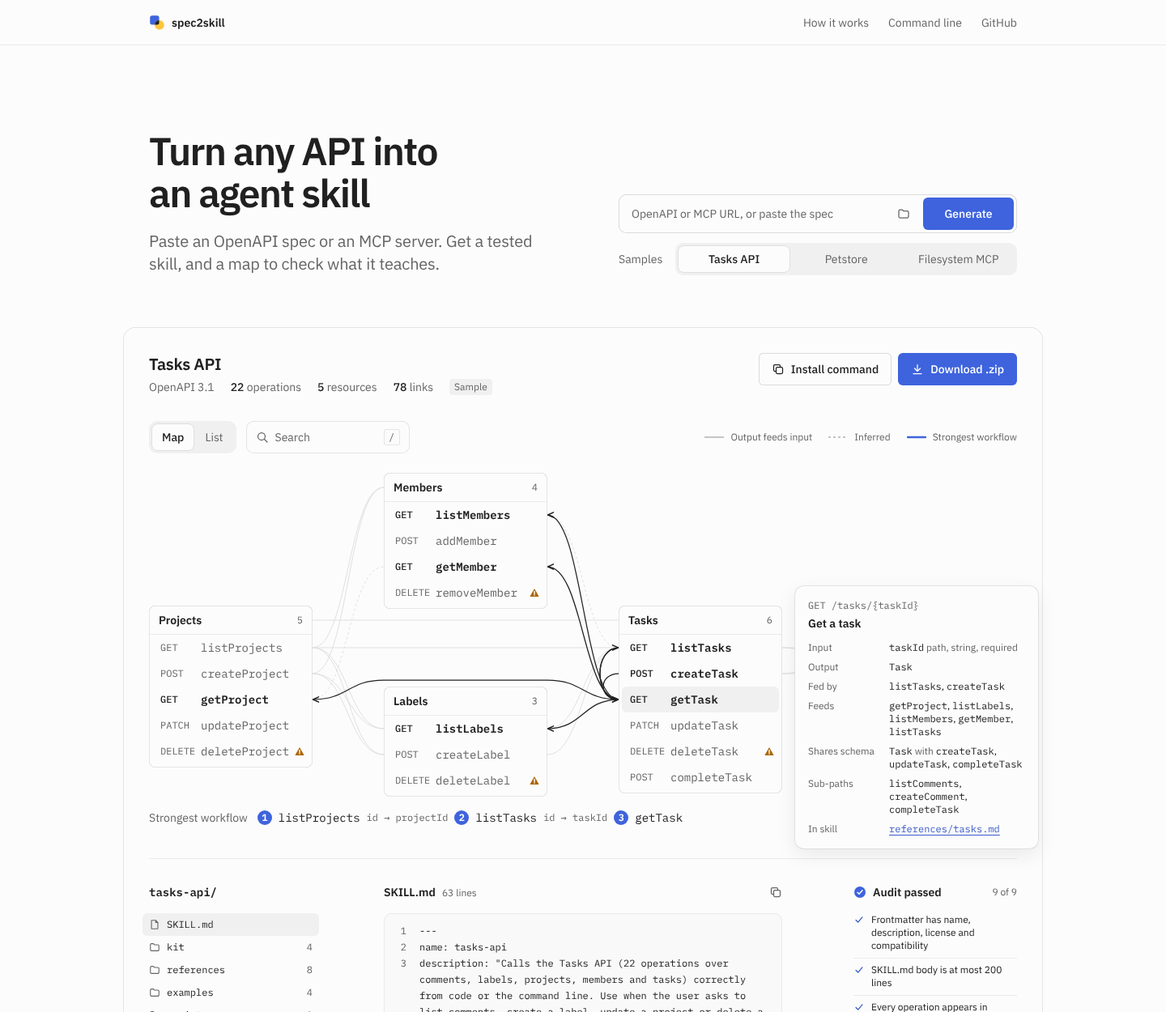
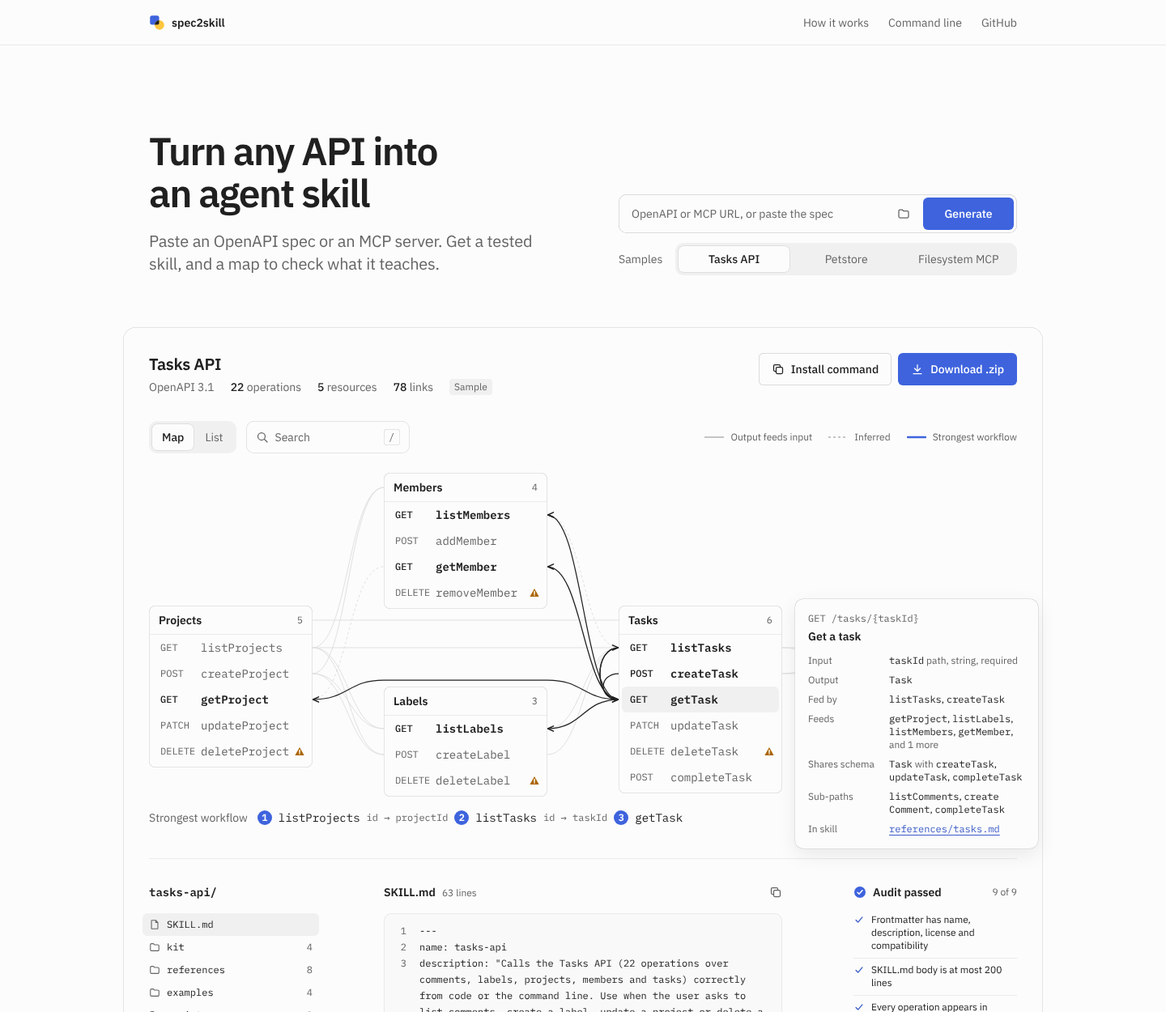
Redesign R7 round 2 follow-ups: the hover preview lists at most four inputs and four related operations per group, then "and N more", so every sample preview fits above the skill browser and redesign-r4 allows no exception; hero and social preview recaptured; the id wrap described generically (D80)
Claude-Session: https://claude.ai/code/session_018f8FAnzov9ZBQEqsiVnGBS

Changed region(s): [[0.6875, 0.5928, 0.875, 0.8112]]

diff --git a/src/map/OpCard.tsx b/src/map/OpCard.tsx
@@ -19,6 +19,12 @@ const list = (items: ReactNode[]) => items.map((item, i) => <Fragment key={i}>{i
 /** A feed's label as the map writes it, one mapping per unbreakable piece: "id -> taskId" becomes "id → taskId". */
 const arrow = (via: string) => list(via.split(', ').map((m) => <span className="nowrap" key={m}>{m.replaceAll(' -> ', ' → ')}</span>));
 
+/**
+ * The hover preview lists at most this many inputs, and of each group of related operations, then
+ * "and N more" (the pinned card lists them all), so every preview fits above the skill browser (D80).
+ */
+const PREVIEW_MAX = 4;
+
 export const opName = (op: Operation): string => (op.kind === 'tool' ? op.id : `${op.method!.toUpperCase()} ${op.path}`);
 
 /** The card's link groups (DESIGN.md 5), in display order, with the relations each one lists. */
@@ -86,6 +92,9 @@ export function OpCard({ model, graph, op, pinned, inSkill, onInSkill, onGo, onC
       },
       () => announce?.('Copy failed: select the example text and copy it.'),
     );
+  // In the preview a long list of related operations stops at PREVIEW_MAX: "a, b, c, d, and 3 more".
+  const few = (items: ReactNode[]): ReactNode[] => (pinned || items.length <= PREVIEW_MAX ? items
+    : [...items.slice(0, PREVIEW_MAX), <span className="muted" key="more">and {items.length - PREVIEW_MAX} more</span>]);
   // A related operation: a button in the pinned card, plain text in the preview (nothing in it takes focus).
   const other = (id: string): ReactNode => (pinned && onGo ? <button type="button" className="oc-link mono" onClick={() => onGo(id)}><Breakable text={id} /></button> : <span className="mono"><Breakable text={id} /></span>);
 
@@ -102,9 +111,10 @@ export function OpCard({ model, graph, op, pinned, inSkill, onInSkill, onGo, onC
       <dl>
         <dt>Input</dt>
         <dd>
-          {op.inputs.length === 0 ? 'None' : op.inputs.map((p, i) => (
+          {op.inputs.length === 0 ? 'None' : (pinned ? op.inputs : op.inputs.slice(0, PREVIEW_MAX)).map((p, i) => (
             <span className="oc-input" key={`${p.in} ${p.name}`}>{i > 0 && <br />}<span className="mono"><Breakable text={p.name} /></span> <span className="muted">{[p.in, typeLabel(p.schema), p.required && 'required'].filter(Boolean).join(', ')}</span></span>
           ))}
+          {!pinned && op.inputs.length > PREVIEW_MAX && <span className="oc-more muted"><br />and {op.inputs.length - PREVIEW_MAX} more</span>}
         </dd>
         <dt>Output</dt>
         <dd>
@@ -120,11 +130,11 @@ export function OpCard({ model, graph, op, pinned, inSkill, onInSkill, onGo, onC
             <dt>{group}</dt>
             <dd>
               {group === 'Shares schema'
-                ? list([...new Set(items.map((x) => x.via ?? ''))].map((schema) => <span key={schema}><span className="mono"><Breakable text={schema} /></span> <span className="muted">with</span> {list(items.filter((x) => (x.via ?? '') === schema).map((x) => other(x.id)))}</span>))
+                ? list([...new Set(items.map((x) => x.via ?? ''))].map((schema) => <span key={schema}><span className="mono"><Breakable text={schema} /></span> <span className="muted">with</span> {list(few(items.filter((x) => (x.via ?? '') === schema).map((x) => other(x.id))))}</span>))
                 : pinned && (group === 'Fed by' || group === 'Feeds')
                   // Pinned, a feed says which field fills which parameter, under the operation: "listTasks" / "id → taskId".
                   ? items.map((x) => <span className="oc-feed" key={x.id}>{other(x.id)}{x.via && <span className="oc-via">{arrow(x.via)}</span>}</span>)
-                  : list(items.map((x) => other(x.id)))}
+                  : list(few(items.map((x) => other(x.id))))}
             </dd>
           </Fragment>
         ))}

diff --git a/src/map/OpCard.test.ts b/src/map/OpCard.test.ts
@@ -40,6 +40,18 @@ describe('OpCard', () => {
     expect(raw).toContain('aria-label="Show references/tasks.md in the skill">references/<wbr/>tasks.md</button>');
   });
 
+  it('preview: at most four inputs and four related operations per group, then "and N more"; pinned lists them all', async () => {
+    const tasks = await sampleModel(getSample('tasks')!);
+    const preview = render(tasks, 'getTask', false);
+    expect(preview).toMatch(/<dt>Feeds<\/dt><dd>(<span class="mono">\w+<\/span>, ){4}<span class="muted">and 1 more<\/span><\/dd>/);
+    expect(render(tasks, 'getTask', true)).not.toContain('more</span>');
+    const petstore = await sampleModel(getSample('petstore')!);
+    const user = render(petstore, 'createUser', false);
+    expect(user.match(/class="oc-input"/g)).toHaveLength(4);
+    expect(user).toContain('<span class="oc-more muted"><br/>and 4 more</span>');
+    expect(render(petstore, 'createUser', true).match(/class="oc-input"/g)).toHaveLength(8);
+  });
+
   it('pinned: a dialog with Close, output fields, auth, related operations as buttons and the example', async () => {
     const html = render(await sampleModel(getSample('tasks')!), 'getTask', true, 'references/tasks.md');
     expect(html).toMatch(/^<div class="op-card" data-testid="op-card" role="dialog" aria-labelledby="([^"]+)">[\s\S]*<h3 class="oc-title" id="\1">/);

diff --git a/src/map/RouteMap.tsx b/src/map/RouteMap.tsx
@@ -237,8 +237,9 @@ export function RouteMap({ model, graph, base = graph, chain, skillFile, onSkill
   }, [cardOp, pinned, rowOf, ox, oy, avail]);
   // The hover preview never scrolls (see app.css), so it is never cut and never reaches the skill
   // browser: any preview whose bottom would pass the limit rises, still beside its row, until it ends
-  // at the limit; only one taller than the map and caption together keeps its full height from the
-  // map's top and passes the limit (D70, D76).
+  // at the limit. A preview is kept short (D80), so on the samples none is taller than the map and
+  // caption together; should a pasted spec make one (a long title, a very short map), it keeps its full
+  // height from the map's top and passes the limit rather than being cut (D70, D76).
   useLayoutEffect(() => {
     const el = wrap.current;
     const preview = el?.querySelector<HTMLElement>('.op-card[aria-hidden="true"]');

diff --git a/docs/DECISIONS.md b/docs/DECISIONS.md
@@ -94,13 +94,14 @@ Record every non-trivial decision here: date, decision, alternatives considered,
 | 2026-10-24 | D67 No motion outside DESIGN.md 7's table: removed the background transition on file rows (gen.mjs's `.row` has one, but the table does not list it and "No other motion" is binding), the rotating chevrons of the phone audit row and the list groups, and the unused `--motion-fast` token (`--motion-draw: 300ms` added; both motion tokens are 0 ms under reduce). Kept, as the hover-or-focus moment (250 ms ease-out): an operation row's grey (map and list rows), its lit and faded text (D47's encoding unchanged), and links fading to gray-5, each transition declared only while the map has a hot row, or the pointer is on a list row, and for 250 ms after (`useFadeOut`, `data-fading`), so rows fade in and back out alike while a theme change and a search's dimming alone snap; added the hot links and the operation card fading in, the card rising 4 px. No hover transition on buttons: V2Motion's button states draw none and DESIGN.md 7 rules out hover lifts. Copied, Downloaded, the preview's copy check, the command-line box's copy check (named "Commands copied" for 2 s), the card's check and "Copied" in place of "Copy example", and the Generate stage fade in over 250 ms (`Swap`, only after a change, never on first render). Every animation is declared only under `prefers-reduced-motion: no-preference`, so under reduce each state appears at once and the spinner is a still arc; `src/design/motion.test.ts` lists every transition and animation of app.css and fails on any other (shorthand or longhand, in or out of the no-preference block), on smooth scrolling, on an unused keyframe, and on scripts (.ts and .tsx) that call `animate()`, scroll smoothly, `setProperty` a transition or animation, or set one as a style key; each case is proven on a fixture string, and the CSS delays are checked against `TIMING`. | Keep the file-row fade from the board's CSS; a `!important` reduce override. | DESIGN.md 7 is the binding list; declaring motion only where it is allowed leaves nothing to undo. |
 | 2026-10-24 | D68 Checks and flows after R6: `settled(page)` in `redesign-checks.mjs` waits (up to 4 s) for every running transition and one-shot animation, not only transitions; the section 8 checks and axe use it, so colours and contrast are read at rest after the load sequence or a label fade (the spinner, the one loop, is left running). `redesign-r6` (phase 21) checks the sequence in real time (ending by 2 s after the map's mount on `document.timeline`) and as three frames sought on paused animations, play-once, the hover timing, the Generate stages on a slow URL with the CPU throttled 4x (Fetching, then Parsing, then the later stages shown, in pipeline order, at the resting width) and Generate's width at 1024 px (112 at rest and through the stages) and 980 px (91 at rest, 112 through every stage), that a list row's grey fades both ways, that a theme change and a search snap, no stage on sample switches, the Copied, Downloaded and command-line copy swaps, the phone list, the synthetic spec's animation count and, under reduced motion, no animation or transition at t = 0 with the end state at once and a still spinner. Older flows that measured right after a load or a card appearing now wait for the motion to end before they measure (phase-7, phase-12, phase-13, redesign-r1, redesign-r4, redesign-r5: `settled` after `ready` and after the card appears); phase-15's `loadOk` waits for the load to end (the stage label gone) because a spec with the sample's title used to pass on the old title; phase-5 checks both motion tokens are 0 under reduce. No check was loosened. | Run older flows under reduced motion; Playwright's `animations: 'disabled'` for screenshots. | The checks keep their subject under the motion users see; waiting changes when they read, not what. |
 | 2026-10-24 | D69 Redesign R7: DESIGN.md section 8 runs in full in one flow, `scripts/browser/flows/redesign-acceptance.mjs` (phase 21): on each sample (Tasks API, Petstore, Filesystem MCP), light and dark, checks 1-4, no sideways page scroll and axe on home at rest, hover (the workflow's last stop: getTask, getPetById, read_text_file), the pinned card and the list at 1440, and the phone list, phone map and pinned bottom sheet at 390 (42 states); check 6 on home at 1440 in both themes with `GRID_PARTS` in full (a map of fewer than three columns, Petstore's and Filesystem's, has no third column to measure, so that one part is left out and the run says so); check 7 under reduced motion on home, hover, list and phone per sample; check 4 in the source (src and index.html), check 5 by running `cvd.test.ts` and `contrast.test.ts`, check 8 by running `check-size.mjs`; it prints every check's result per state. Its axe fails on violations of any impact (`runAxe(page, label, { all: true })`; the run-wide axe keeps failing on serious and critical). With it, each section 8 check runs once: `redesign-r1` is retired (its section 8 states are all in the suite; its type and logo checks, Plex Mono loaded, `tnum` on the root and the Overlap mark's clip, moved to `phase-5-shell`, which already checked the theme, Plex Sans and the wordmark), and the section 8 calls on the same states are removed from `redesign-r2` (home 1440 light and dark, 390 light, grid), `redesign-r4` (rest, hover and pinned at 1440 in both themes, the grid, the phone map, the pinned sheet, reduced motion on hover) and `redesign-r5` (home and list at 1440 in both themes, the grid, the phone in both themes, reduced motion at rest); their other checks stay. `ci/github-workflow.yml` runs every flow (`--phase 21`; it stopped at 19, before the redesign flows). | Keep the checks in every flow that had them; one flow per sample. | One place answers "does section 8 pass", and a run does not repeat the same states four times. |
-| 2026-10-24 | D70 The hover preview is never cut: it cannot scroll (D60: a scrolling preview would be a focusable scroller that vanishes on blur), and getTask's seven-row card was clipped mid-row at the map's bottom plus 64 px, hiding In skill. A preview taller than its room now rises beside its row until it ends at that limit (measured after layout, before paint); one taller than the map and caption together keeps its height and passes the limit. `redesign-r4` checks that no Tasks API row's preview is cut, that each starts at least 40 px above its row's centre and ends below its row, and that its last line shows. | Let the preview scroll; cap the list of related operations. | Found in R7's review of the screenshots; the card is the map's explanation and its last line is the link into the skill. |
+| 2026-10-24 | D70 The hover preview is never cut: it cannot scroll (D60: a scrolling preview would be a focusable scroller that vanishes on blur), and getTask's seven-row card was clipped mid-row at the map's bottom plus 64 px, hiding In skill. A preview taller than its room now rises beside its row until it ends at that limit (measured after layout, before paint); one taller than the map and caption together keeps its height and passes the limit. `redesign-r4` checks that no Tasks API row's preview is cut, that each starts at least 40 px above its row's centre and ends below its row, and that its last line shows. | Let the preview scroll; cap the list of related operations. | Found in R7's review of the screenshots; the card is the map's explanation and its last line is the link into the skill. (Amended by D80: the preview now caps its lists, and no sample preview passes the limit.) |
 | 2026-10-24 | D71 The motion guard (`src/design/motion.test.ts`) also catches `el.style['transition'] = …` and other bracket assignments of a transition or animation (any quote, vendor prefixes, kebab or camel case; reading one is fine), and reads CSS property names, `@keyframes` and `scroll-behavior` in any case (`TRANSITION:` applies in CSS); each is proven on a fixture. | Leave both as R6 verify noted them. | CSS property names are case-insensitive, and the bracket form was an open evasion. |
 | 2026-10-24 | D72 Media on the route map: `docs/media/hero.png` is V2Hover from the real app (1440x1250, light, reduced motion, getTask hovered; 176 KB); `docs/media/demo.gif` (`pnpm capture:demo`, 239 KB, 18 frames, 960 px) shows the switch from Petstore to the Tasks API with the load sequence as 15 frames sought on paused animations at their real times (0 to 1300 ms), the map at rest, getTask's operation card, then In skill opening `references/tasks.md` in the skill browser beside the audit; the script holds the GIF to 1 MB. The old demo's Download and terminal audit scene and the Petstore list scene are dropped (the README shows the audit's output as text; the list is in the docs). `docs/media/social-preview.html` is restyled on the new tokens (Radix light values, Plex, the new headline, no middle dot) and crops the hero to Members, Labels, Tasks and the operation card; `docs/social-preview.png` 121 KB. The examples gallery has no images; `pnpm gallery --check` passes unchanged. | A real-time screen recording (frame times depend on the machine); a WebP hero (the README, social preview and docs test name hero.png). | Small, deterministic, and it shows the three things the redesign is about. |
 | 2026-10-24 | D73 Docs: `docs/DESIGN.md` is rewritten from `docs/redesign/DESIGN.md` as built, with the decisions folded in (destructive mark and `--destructive`, D34, D41, D53; fade by weight, D47; feed-only hover links, D45; card bundles, D54; the audit's wording, D57; no middle dot in generated skills, D58; the Install command, D63; stage labels "Fetching" or "Reading" first and the 100 ms minimum, D65; Generate's 112 px and its widening between 960 and about 1007 px, D65; discs popping as the line arrives at 450 + 300 (k - 1) ms, D66; the preview rising, D70) and the section 8 suite, and is now in the docs link check. `docs/PLAN.md` section 3 is a pointer to it; `docs/redesign/DESIGN.md` and `PLAN.md` say at their top that they are the historical record, and the board table notes V2Motion pops discs earlier than the product. README "How it works" (columns, main workflow line, links, hover links and the operation card, destructive mark, list view, search) and "Accessibility" (keyboard, screen readers, never colour alone, contrast, reduced motion, the checks) describe the route map; the README, LAUNCH.md demo scenarios and thread drafts, DEPLOY.md's smoke steps and EXTENDING.md no longer describe the old UI (chips, Filters, the detail panel, the skill pane beside the map, Load); good first issue 8 (a splitter between two panes that no longer exist) became "Keep the open skill file in the URL"; CHANGELOG lists the redesign. | Keep `docs/DESIGN.md`'s calm-layout rules beside the new spec. | One current design document; the old rules described a layout that is gone. |
 | 2026-10-24 | D74 The before/after set in `docs/screenshots/redesign/` (WebP, quality 0.8, full page at rest after `settled`, Tasks API): before is main at 5e6fed7, extracted with `git archive` into the scratchpad (outside the repo), installed and built there and served on its own port; after is this branch: home at 1440 light and dark and 390 light for both, plus hover (getTask, 1440 light) and the list (1440 light) after. | A git worktree (adds an entry to the repo); viewport-only shots. | No branch or worktree touched; the full page shows the whole redesign. |
 | 2026-10-24 | D75 Made by rows and text overlap (R7 verify 1): a Made by row keeps its two 202 px cells (name over URL, line beside) only while the list is at full width; `.projects` is a size container and below 490 px (a viewport under about 1165 px) the row stacks name, line, URL, as on phones, so no URL is cut, wrapped mid-word or printed over its line (from 640 to about 807 px it was). The URL keeps `min-width: 0` and `overflow-wrap: anywhere` as a last guard. The acceptance suite gains a text-overlap check (`overlapCheck` in redesign-checks.mjs: every rendered line of every visible text node, clipped by its clipping ancestors and narrowed to its em box; two nodes crossing by more than 2 px on both axes fail) on home at rest for each sample at 1440, 1024, 768, 640, 390 and 320, plus each Made by row's name, line and URL boxes neither crossing nor leaving the row; and two states in both themes with checks 1 to 4 and axe: the next row focused from the keyboard (ArrowDown after Escape) and a card pinned from the address (`#op=deleteTask`, `deleteUser`, `move_file`, rows near the map's bottom). | Stack below 960 with the hero (the URL still wrapped mid-word between 960 and 1165); break the URL after "/" (two-line URLs in a 72 px row). | A container query follows the list's own width, which is what the URL needs. |
-| 2026-10-24 | D76 Every hover preview fits above the skill browser (R7 verify 1): the preview has no 240 px floor (that is the pinned card's, which scrolls); after it renders, any preview whose bottom would pass the map's bottom plus 64 px rises, still beside its row, until it ends there (short previews near the bottom such as completeTask, deleteProject, Petstore loginUser and Filesystem get_file_info used to keep their place and cover the skill browser by up to 96 px). `redesign-r4` now hovers every row of all three samples and fails a preview that is cut, leaves its row, ends more than 64 px under the map or reaches the skill browser; D70's exception (a preview taller than the map and caption starts at the map's top and passes the line) is allowed and logged; it still happens on one sample, Petstore, whose map is 296 px tall (limit 360): createUser's preview is 484 px and reaches 112 px into the skill browser, updateUser's 420 (48 px), addPet's 404 (32 px). Avoiding it would take blank space reserved under short maps, a preview rising over the frame's head and tools row, or a shortened preview, each worse than a transient pointer-only overlay; the pinned card never passes the line (it scrolls). | Scroll the preview (it is `aria-hidden` and pointer-only, so a scroll inside it is out of reach); move it to the other side. | The same rule for every preview; the skill browser is never covered. |
+| 2026-10-24 | D76 Every hover preview fits above the skill browser (R7 verify 1): the preview has no 240 px floor (that is the pinned card's, which scrolls); after it renders, any preview whose bottom would pass the map's bottom plus 64 px rises, still beside its row, until it ends there (short previews near the bottom such as completeTask, deleteProject, Petstore loginUser and Filesystem get_file_info used to keep their place and cover the skill browser by up to 96 px). `redesign-r4` now hovers every row of all three samples and fails a preview that is cut, leaves its row, ends more than 64 px under the map or reaches the skill browser; D70's exception (a preview taller than the map and caption starts at the map's top and passes the line) is allowed and logged; it still happens on one sample, Petstore, whose map is 296 px tall (limit 360): createUser's preview is 484 px and reaches 112 px into the skill browser, updateUser's 420 (48 px), addPet's 404 (32 px). Avoiding it would take blank space reserved under short maps, a preview rising over the frame's head and tools row, or a shortened preview, each worse than a transient pointer-only overlay; the pinned card never passes the line (it scrolls). (Superseded by D80: shortened previews all fit; `redesign-r4` allows no exception.) | Scroll the preview (it is `aria-hidden` and pointer-only, so a scroll inside it is out of reach); move it to the other side. | The same rule for every preview; the skill browser is never covered. |
 | 2026-10-24 | D77 Check 2 reads generated boxes and opacity (R7 verify 1): `collect()` records `::before` and `::after` whose content is not none (the workflow's stop discs, the code view's line numbers) and an open modal dialog's `::backdrop` like elements (type, colour, lines), and the colour check fails anything at an opacity between 0 and 1 at rest (a faded colour is not a Radix step; the load and hover motion fades through opacity and has finished when `settled` lets the checks read). It found one: the shortcuts dialog's backdrop, `gray-1` at 0.8, which is now opaque `gray-1` (the dialog sits on a plain page). The acceptance suite gains the shortcuts dialog as a state in both themes on every sample (checks 1 to 4 and axe). | A documented scrim exception (gray-1 at 0.8) in check 2. | No exception to the colour rule; the shortcuts read better on a quiet page. |
 | 2026-10-24 | D78 Media fixes (R7 verify 1), amending D72: `docs/media/demo.gif` (277 KB, 19 frames) now opens on one Petstore frame (1.2 s) with the samples at the window's top, so the switch to the Tasks API is seen (Petstore selected, then Tasks API, and the load sequence under it); the README alt text and LAUNCH.md say so. `docs/media/social-preview.html` is relaid: the headline on one line (48) with a one-line lede (20, the code at 20 rather than 18) and the wordmark with "Open source, MIT licence, works offline" (14) on the right, over the hero at 100 %: the result frame from its left to its right side (152 to 1288 px, exactly the 1136 px box) and from just above the map's cards (y 576) to the blank under the workflow caption (y 1056), so no card, line of text or caption is cut; `docs/social-preview.png` 1280x640. | Keep the 80 % crop beside the words (any crop narrower than the frame cuts the workflow caption or the operation card); start the GIF on the Tasks API (the switch is not seen). | The whole map and card, legible, and a demo that shows the switch it describes. |
-| 2026-10-24 | D79 Ids wrap at word boundaries (R7 verify 1): `src/design/breaks.tsx` has `idPieces` (unit-tested: camelCase humps, acronyms kept whole, breaks after `_`, `-`, `/`, `.` but not before a short lower-case extension or after a run of separators alone, before `{`) and `<Breakable>`, which joins the pieces with `<wbr>`. It is used in the operation card (path, input, output and field names, auth, schema and related ids, In skill), the list rows' id and path (replacing the list's own break after "/"), the workflow caption's ids, the skill browser's file heading and the file tree's names. `<wbr>` adds no character, so copied text and accessible names are unchanged; `overflow-wrap: anywhere` stays as the last resort. In Petstore's createUser preview "createUsersWithArrayInp / ut" now wraps as "createUsersWithArray / Input"; `redesign-r4` checks the createUsersWithArrayInput and createUser previews have no line ending inside a piece. The map rows stay one line with an ellipsis. | Zero-width spaces (they end up in copied text); `word-break: break-word` alone (still breaks mid-word). | Readable ids at any width, nothing added to the text. |
+| 2026-10-24 | D79 Ids wrap at word boundaries (R7 verify 1): `src/design/breaks.tsx` has `idPieces` (unit-tested: camelCase humps, acronyms kept whole, breaks after `_`, `-`, `/`, `.` but not before a short lower-case extension or after a run of separators alone, before `{`) and `<Breakable>`, which joins the pieces with `<wbr>`. It is used in the operation card (path, input, output and field names, auth, schema and related ids, In skill), the list rows' id and path (replacing the list's own break after "/"), the workflow caption's ids, the skill browser's file heading and the file tree's names. `<wbr>` adds no character, so copied text and accessible names are unchanged; `overflow-wrap: anywhere` stays as the last resort. Ids that used to break inside a word (Petstore's createUser preview) now end a line only at a camelCase or separator boundary; `redesign-r4` checks the createUsersWithArrayInput and createUser previews have no line ending inside a piece. The map rows stay one line with an ellipsis. | Zero-width spaces (they end up in copied text); `word-break: break-word` alone (still breaks mid-word). | Readable ids at any width, nothing added to the text. |
+| 2026-10-24 | D80 A short hover preview (R7 round 2 follow-up): the preview lists at most four inputs, then "and N more", and at most four operations in each related group (Fed by, Feeds, Shares schema's list, Sub-paths, Sub-path of), then "and N more"; the pinned card lists everything. This reverses D70's rejected alternative "cap the list of related operations": with it every preview on the three samples fits above the skill browser (Petstore's createUser goes from 484 to 356 px and addPet to 356 px, under the 360 px limit), so `redesign-r4` now allows no preview to pass the map's bottom plus 64 px. RouteMap keeps D70's fallback (start at the map's top and pass the line, never cut) for a pasted spec whose preview is still taller than its map and caption. The README hero, social preview and demo are recaptured with the shorter card. | Cap the inputs only (createUser stays 388 px, over the limit); keep D70's exception. | The goal is that no preview covers the skill browser; the pinned card keeps the full detail. |

diff --git a/docs/DESIGN.md b/docs/DESIGN.md
@@ -53,7 +53,7 @@ IBM Plex Sans and IBM Plex Mono, 400, 500 and 600, Latin subset, self-hosted wof
 | 14 / 20 | body, controls, operation ids (mono), file names on phones |
 | 12 / 16 | meta, methods, paths, code, counts, captions, the operation card's list |
 
-No other sizes, no uppercase or letter-spaced labels. Identifiers (operation ids, paths, schema and field names, file names) wrap only at their word boundaries: `<Breakable>` (`src/design/breaks.tsx`) puts a `<wbr>` before each camelCase hump, after `_`, `-`, `/` and `.` and before `{`, so "createUsersWithArrayInput" wraps as "createUsersWithArray" over "Input"; copied text and accessible names stay the plain id, and `overflow-wrap: anywhere` is only the last resort for one word wider than its box (D79).
+No other sizes, no uppercase or letter-spaced labels. Identifiers (operation ids, paths, schema and field names, file names) wrap only at their word boundaries: `<Breakable>` (`src/design/breaks.tsx`) puts a `<wbr>` at each camelCase or separator boundary (before a hump, after `_`, `-`, `/` and `.`, before `{`), so a line ends between two words of an id, never inside one; copied text and accessible names stay the plain id, and `overflow-wrap: anywhere` is only the last resort for one word wider than its box (D79).
 
 ### Lines, shape and space
 
@@ -112,7 +112,7 @@ No other sizes, no uppercase or letter-spaced labels. Identifiers (operation ids
 **Interaction**
 
 - **Hover or focus an operation** (D45, D47): its feed links appear, each its own 1.25 px `gray-12` curve with an arrowhead (sub-path and shared-schema relations are listed in the card and the list, not drawn). Rows are lit or faded by weight as well as colour: lit (the hot row, rows its links reach, search matches) id `gray-12` 600 and method 500; faded id and method `gray-11` 400; a card with no lit row fades its name to `gray-11` 500; rest links fade to `gray-5` without arrowheads and the workflow line and discs rest in `gray-5` until nothing is hot. Not opacity 0.38, which drops buttons to about 2.3:1.
-- **The operation card** (D46, D60, D70, D76): 300 wide, radius 10, `gray-1`, `gray-7` ring and the float shadow, padding 16; method and path, title, then Input, Output, Fed by, Feeds, Shares schema, Sub-paths, Sub-path of, In skill (opens the reference file in the skill browser). It sits 16 px right of the row's card with its top 40 px above the row's centre, flips left of the card at the frame's or window's edge, and never covers the skill browser: any preview that would end more than 64 px under the map rises beside its row until it ends there, so it is never cut either (D76); only a preview taller than the map and those 64 px together starts at the map's top and passes the line (D70). The hover preview is `aria-hidden` (the row's name carries the essentials); a pointer has 150 ms to travel from the row to it.
+- **The operation card** (D46, D60, D70, D76, D80): 300 wide, radius 10, `gray-1`, `gray-7` ring and the float shadow, padding 16; method and path, title, then Input, Output, Fed by, Feeds, Shares schema, Sub-paths, Sub-path of, In skill (opens the reference file in the skill browser). The hover preview lists at most four inputs and four operations per group, then "and N more"; the pinned card lists them all. It sits 16 px right of the row's card with its top 40 px above the row's centre, flips left of the card at the frame's or window's edge, and never covers the skill browser: any preview that would end more than 64 px under the map rises beside its row until it ends there, so it is never cut either (D76). Kept short (D80), no preview on the samples is taller than the map and those 64 px together; one from a pasted spec that still is starts at the map's top and passes the line rather than being cut (D70). The hover preview is `aria-hidden` (the row's name carries the essentials); a pointer has 150 ms to travel from the row to it.
 - **Pinned** by click, Enter or Space: a non-modal dialog named by its title, after the map in the Tab order, with Close, the description, auth, related operations as buttons that move the pin, and the example request with Copy example. Escape closes it and returns focus to the row; `#op=` names the pinned row and back and forward move the pin. Its height is capped at the map's bottom plus 64 px and it scrolls inside, so it never covers the skill browser. On phones it is a bottom sheet (at most 50dvh) with the page padded so a focused row stays clear; in the list it docks under the groups.
 - **Keyboard** (`src/map/keyboard.ts`, D48): the map is one Tab stop (roving tabindex); arrows move to the nearest row that way, Page Up and Page Down change card, Home and End go to a card's first and last row, E cycles the focused row's relationships (announced, the far row outlined), Enter or Space pins; `?` opens the shortcuts dialog anywhere outside a text field. A row's name starts with its visible text: "GET getTask, /tasks/{taskId}, Get a task, workflow step 3, cluster Tasks, 13 relationships".
 - **Search**: `/` focuses it; matches stay lit, the rest fade, and the count is announced. URL state keeps `#op=`, `q=` and `view=` (`map` or `list`).
